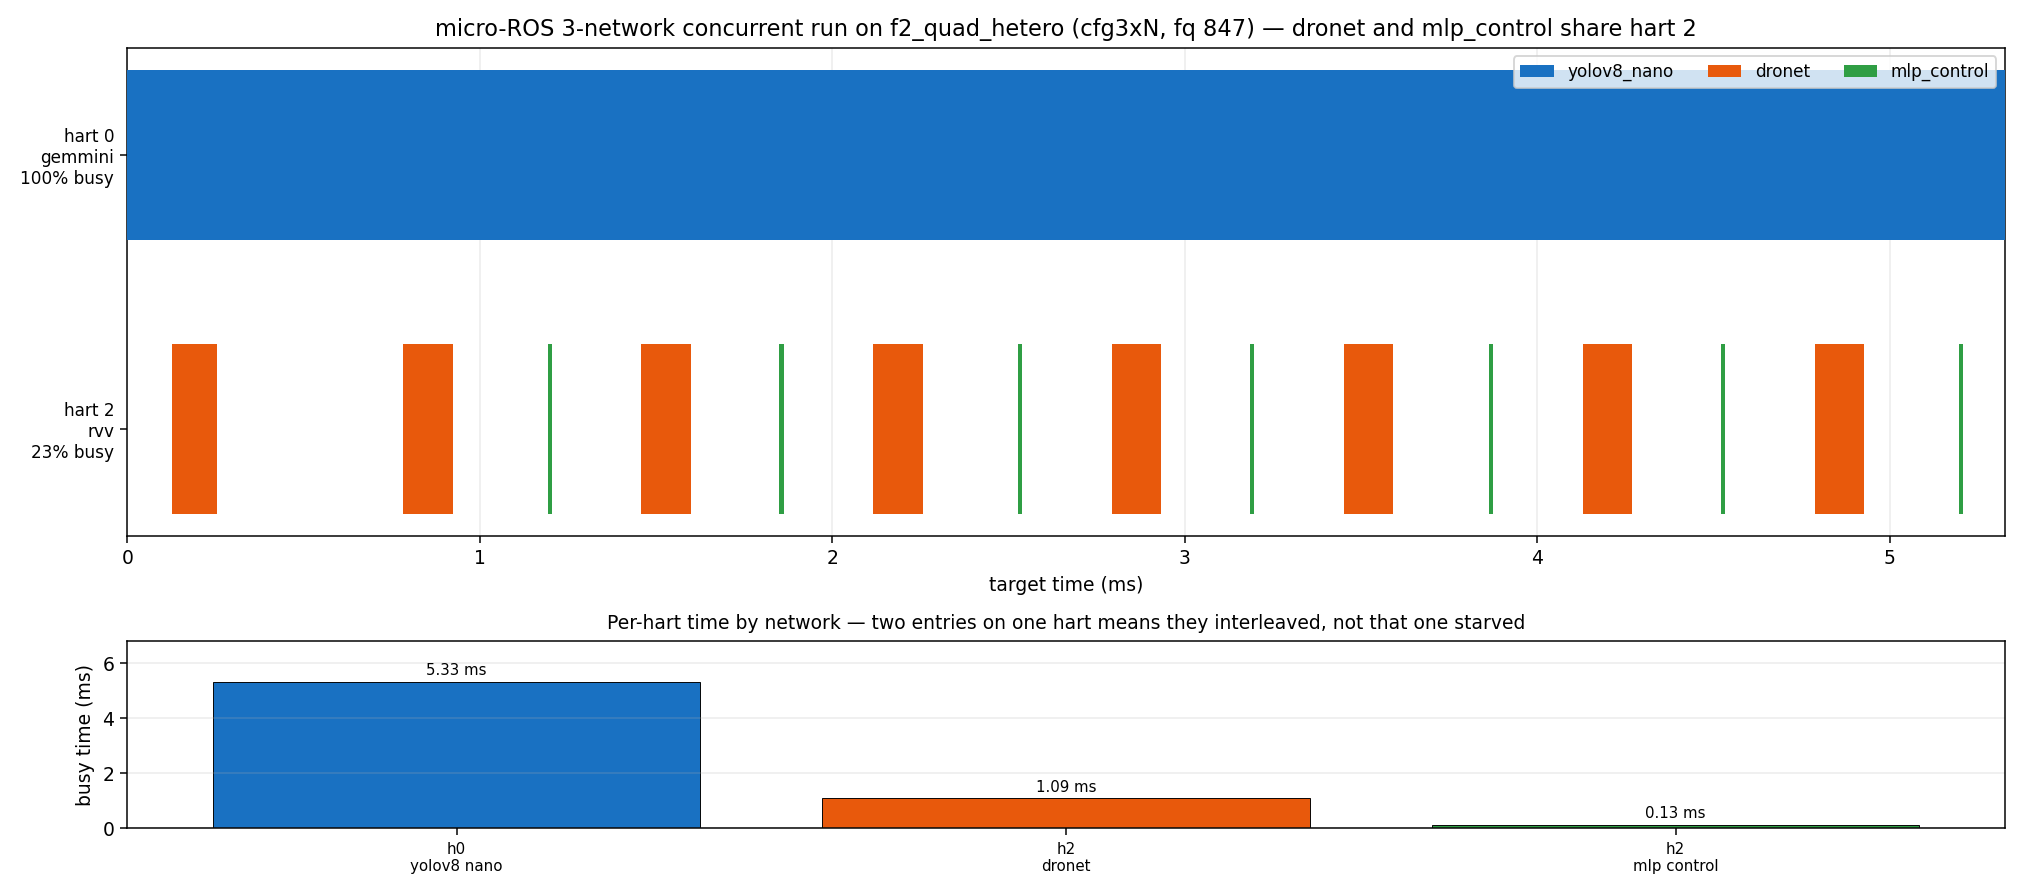
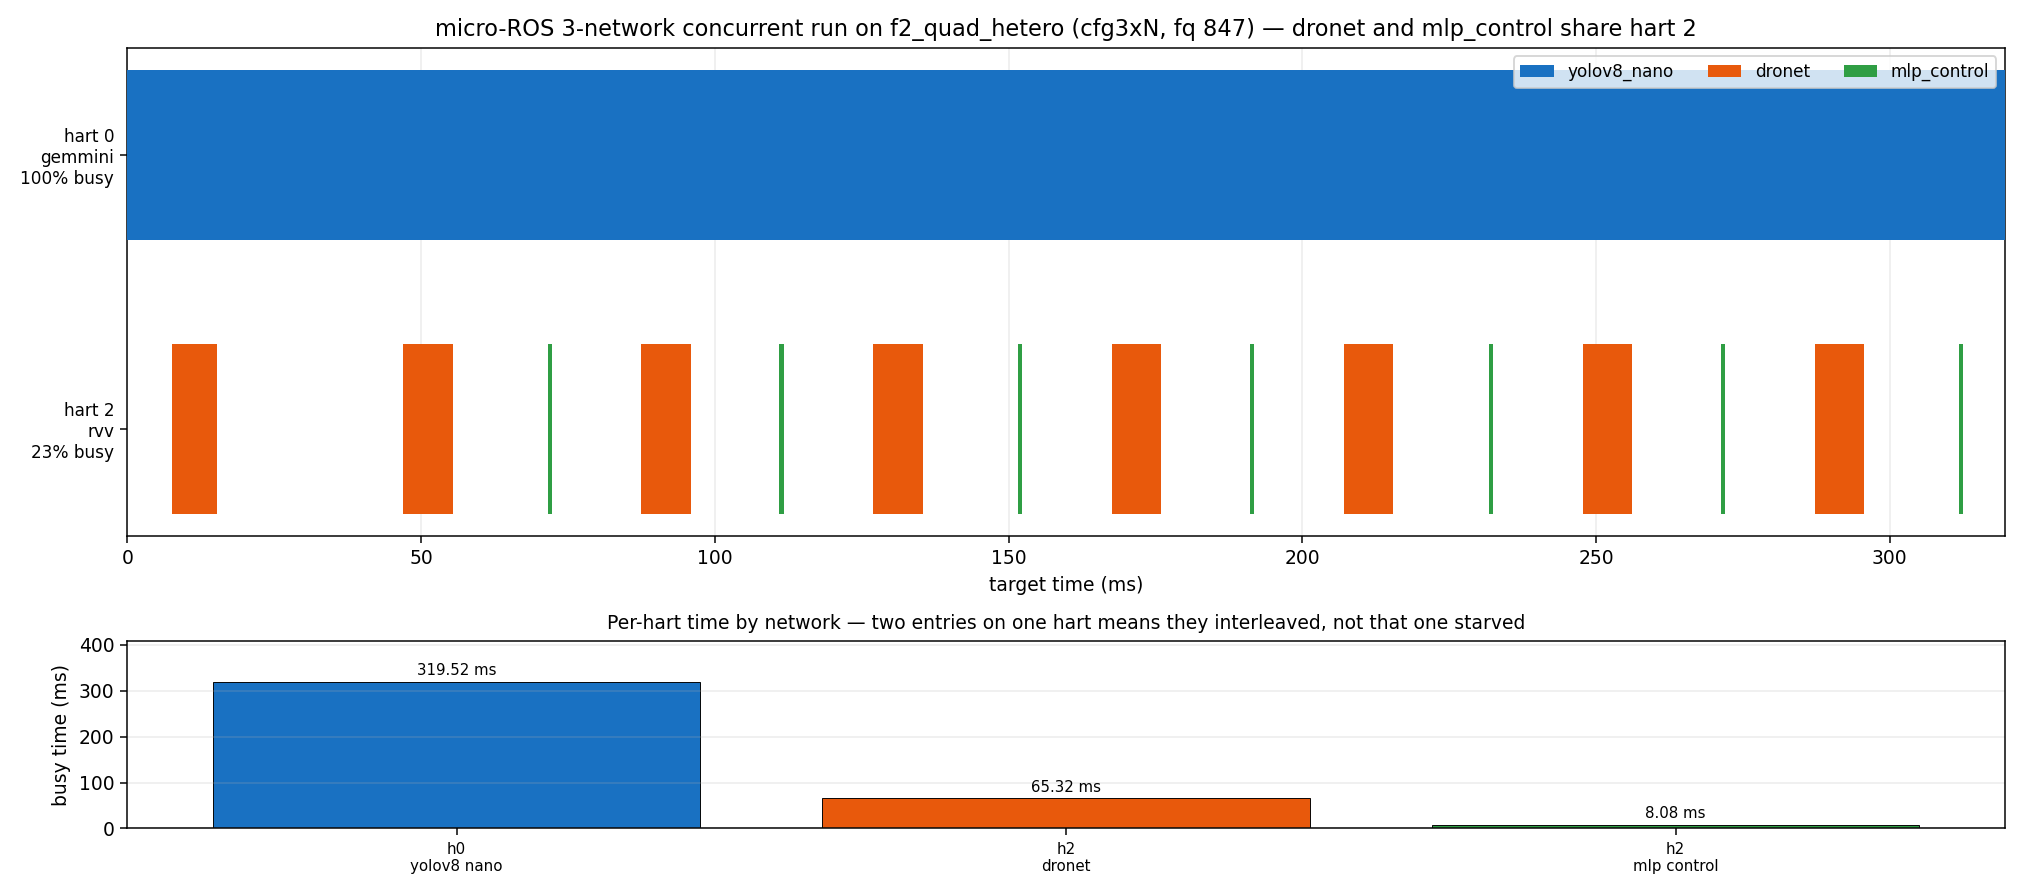
gantt_microros: the trace ticks are microseconds, not core cycles
The columns are HEADED start_cycles/end_cycles and hold the mtime counter,
which runs at 1 MHz -- one tick is one microsecond regardless of the 60 MHz
core clock. Dividing by 60e3 made every duration 60x too small and rendered a
319.55 ms run as 5.33 ms.

That does not look like an error, it looks like a fast run, which is why it
needs a tripwire rather than a comment: dronet is launched with a 40 ms period
and its measured inter-iteration spacing is 39400/40512/39488/40601 ticks --
39-41 ms as microseconds, 0.66 ms as core cycles. The plotter now recovers a
periodic network's period from the trace and refuses to draw an axis it cannot
justify.

Same field name burned this repo once already: the profile CSV's cycles column
holds nanoseconds (uartlog_to_profile.py --clock-mhz 1000).

Occupancy percentages were unaffected -- numerator and denominator scaled
together -- so hart 0 at 100% and hart 2 at 23% stand. Absolute times were not:
yolov8 319.52 ms, dronet 65.32 ms, mlp_control 8.08 ms.

Claude-Session: https://claude.ai/code/session_016FZJBMj4iUznoDoS6GgxGm

diff --git a/experiments/microros/gantt_microros.py b/experiments/microros/gantt_microros.py
@@ -19,7 +19,20 @@ import matplotlib.pyplot as plt
 from matplotlib.patches import Patch
 
 NET_COLOR = {"yolov8_nano": "#1971C2", "dronet": "#E8590C", "mlp_control": "#2F9E44"}
-MHZ = 60.0                      # f2_quad_hetero_norose_tacit_q31_60mhz
+
+# The trace column is HEADED "start_cycles"/"end_cycles" and does not contain
+# cycles: it is the mtime tick counter, which runs at 1 MHz, so one tick is one
+# MICROSECOND regardless of the 60 MHz core clock. Dividing by 60e3 as if they
+# were core cycles makes every duration 60x too small -- a 319.55 ms run reads
+# as 5.33 ms, which is the give-away that something is wrong, since yolov8_nano
+# alone is known to take ~319 ms here.
+#
+# The check below is not decoration. dronet is launched with a 40 ms period, so
+# its measured inter-iteration spacing pins the unit: 39400/40512/39488/40601
+# ticks is 39-41 ms as microseconds and 0.66 ms as core cycles. The same field
+# name burned this repo once already on the profile CSV, whose "cycles" column
+# holds nanoseconds (uartlog_to_profile.py --clock-mhz 1000).
+US_PER_TICK = 1.0
 
 
 def rows(path):
@@ -47,8 +60,21 @@ def main(path, out, title):
     r = rows(path)
     if not r:
         raise SystemExit(f"{path}: no trace rows between the BEGIN/END markers")
+    # Unit tripwire: recover a periodic network's period from the trace and
+    # refuse to plot if it is not a plausible millisecond-scale period. Getting
+    # this wrong does not look like an error, it looks like a fast run.
+    for net in ("dronet", "mlp_control"):
+        st = sorted({x["t0"] for x in r if x["net"] == net and x["did"] == 0})
+        if len(st) >= 3:
+            med = sorted(st[i + 1] - st[i] for i in range(len(st) - 1))[len(st) // 2]
+            if not (1_000 <= med <= 1_000_000):
+                raise SystemExit(
+                    f"{net}: median inter-iteration spacing {med} ticks is not a "
+                    f"plausible period in microseconds. The tick unit assumption "
+                    f"is wrong -- do not trust the time axis.")
+            break
     base = min(x["t0"] for x in r)
-    span = (max(x["t1"] for x in r) - base) / MHZ / 1000.0        # ms
+    span = (max(x["t1"] for x in r) - base) * US_PER_TICK / 1000.0   # ms
     harts = sorted({x["hart"] for x in r})
     nets = [n for n in NET_COLOR if any(x["net"] == n for x in r)]
 
@@ -58,12 +84,12 @@ def main(path, out, title):
     per_net_hart = collections.defaultdict(float)
     for x in r:
         y = harts.index(x["hart"])
-        a = (x["t0"] - base) / MHZ / 1000.0
-        w = max((x["t1"] - x["t0"]) / MHZ / 1000.0, span * 4e-4)   # keep 1-cycle ops visible
+        a = (x["t0"] - base) * US_PER_TICK / 1000.0
+        w = max((x["t1"] - x["t0"]) * US_PER_TICK / 1000.0, span * 4e-4)  # keep short ops visible
         ax.barh(y, w, left=a, height=.62, color=NET_COLOR[x["net"]],
                 edgecolor="none", zorder=3)
-        busy[x["hart"]] += (x["t1"] - x["t0"]) / MHZ / 1000.0
-        per_net_hart[(x["hart"], x["net"])] += (x["t1"] - x["t0"]) / MHZ / 1000.0
+        busy[x["hart"]] += (x["t1"] - x["t0"]) * US_PER_TICK / 1000.0
+        per_net_hart[(x["hart"], x["net"])] += (x["t1"] - x["t0"]) * US_PER_TICK / 1000.0
     ax.set_yticks(range(len(harts)))
     ax.set_yticklabels([f"hart {h}\n{'gemmini' if h < 2 else 'rvv'}\n{busy[h]/span:.0%} busy"
                         for h in harts], fontsize=9)
